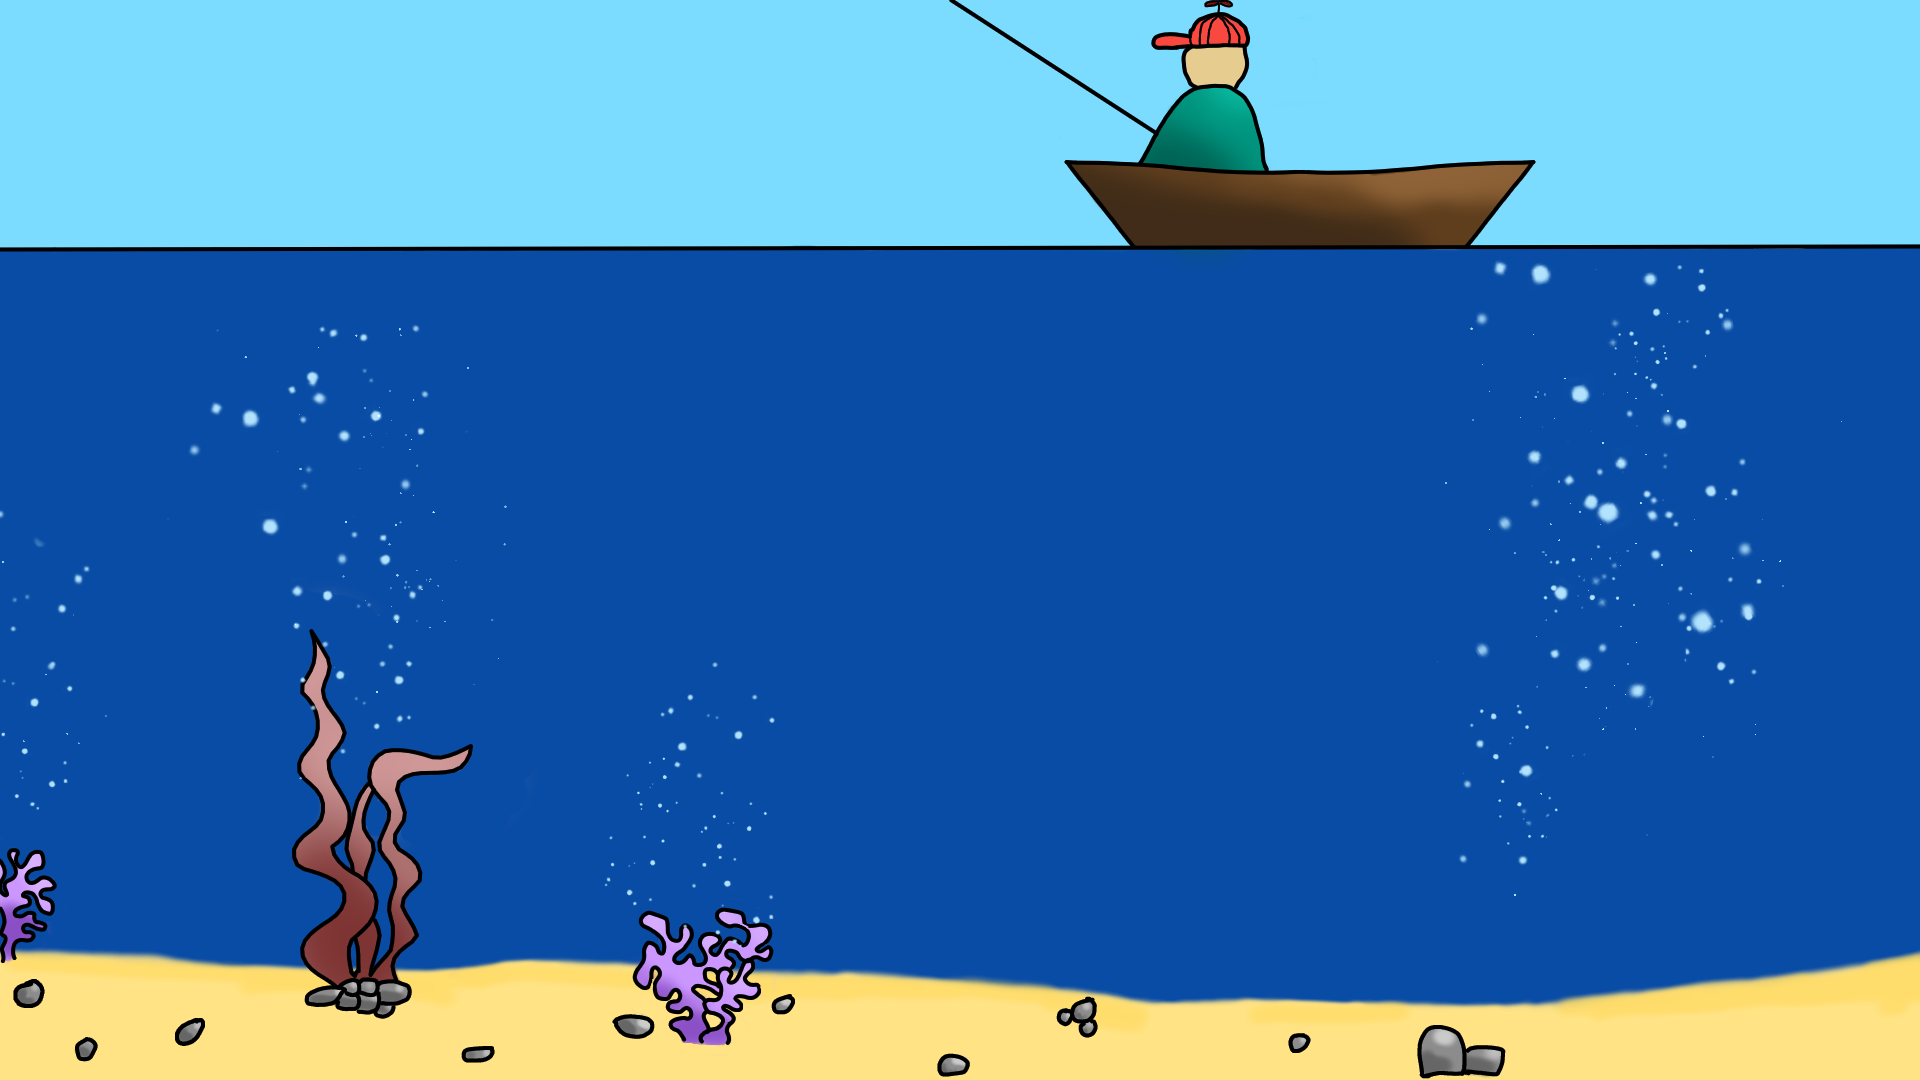
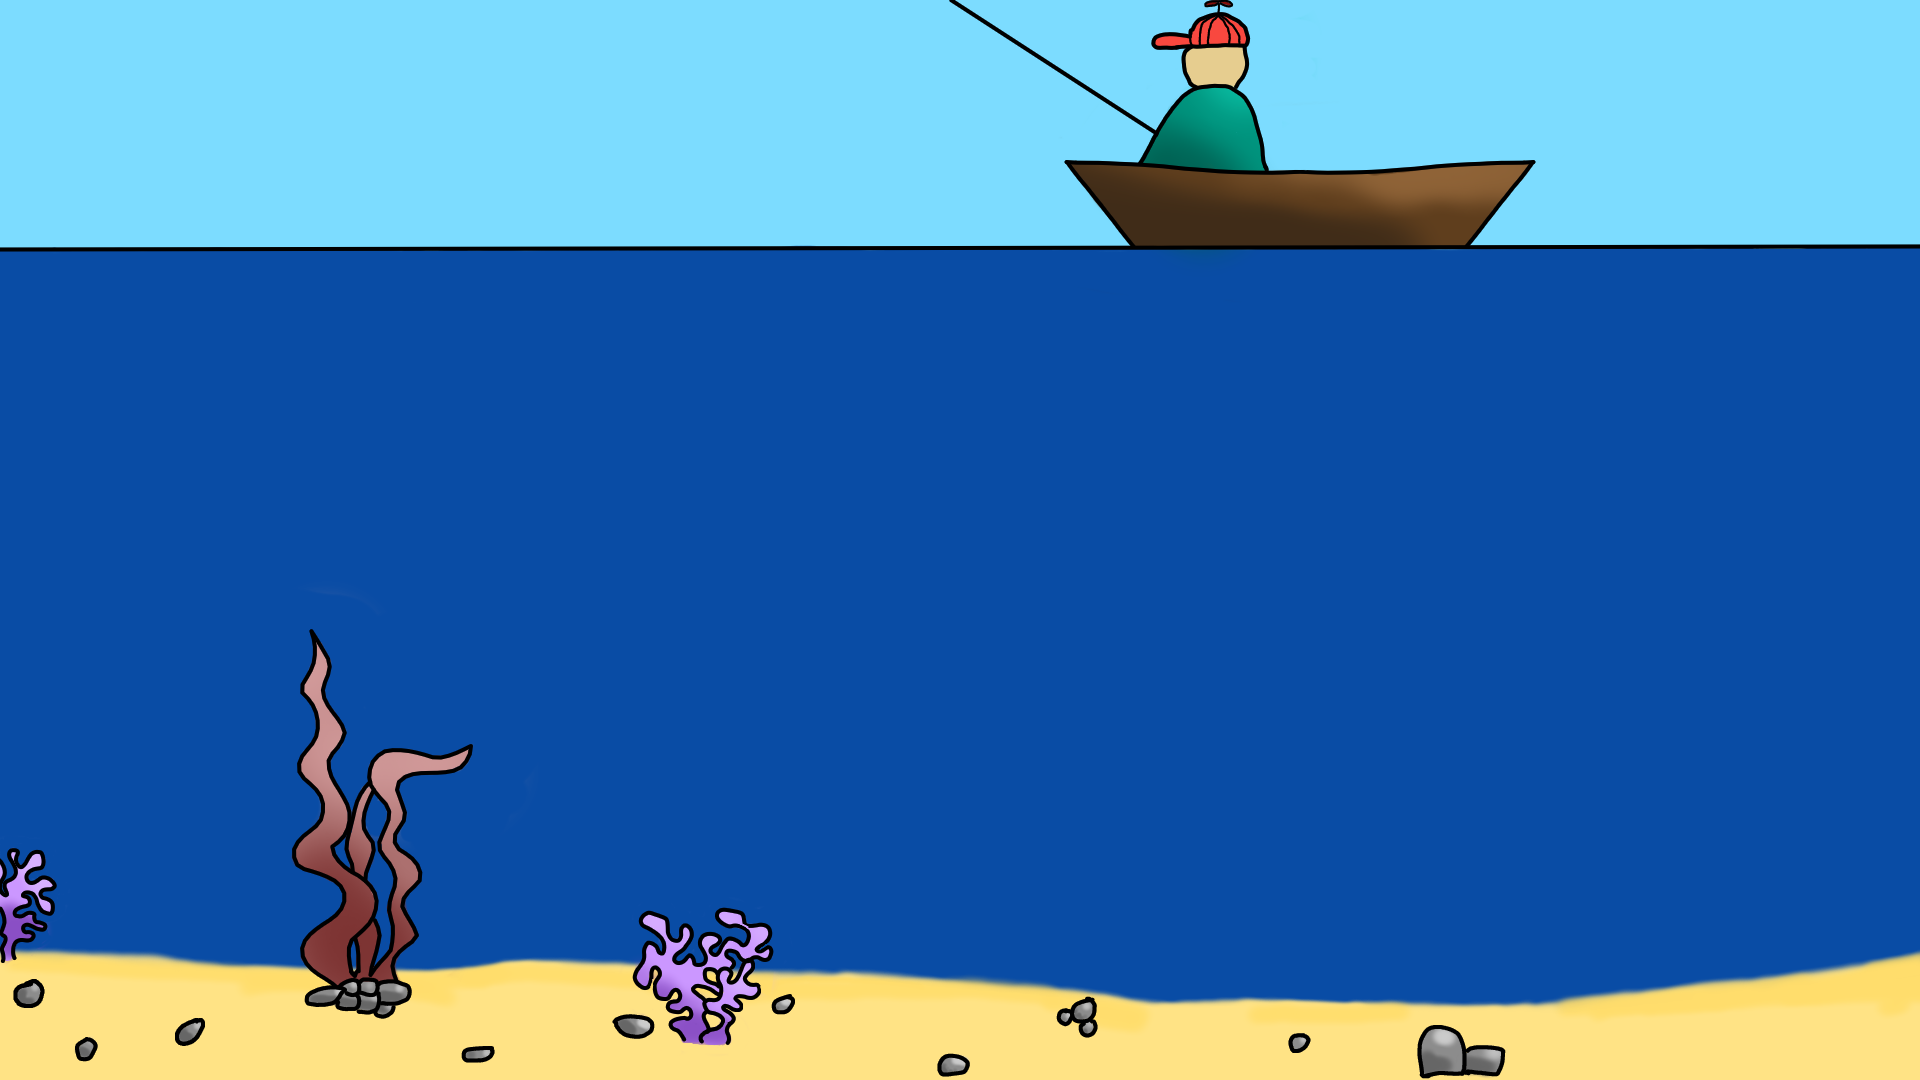
Changed minigame background

diff --git a/Assets/Scripts/Minigames/DonkeyGong/NoteMovement.cs b/Assets/Scripts/Minigames/DonkeyGong/NoteMovement.cs
@@ -13,6 +13,7 @@ public class NoteMovement : MonoBehaviour
     void Start()
     {
         speed = Random.Range(speedMin, speedMax);
+        transform.localScale = transform.localScale * Random.Range(0.65f, 1.1f);
     }
 
     // Update is called once per frame
